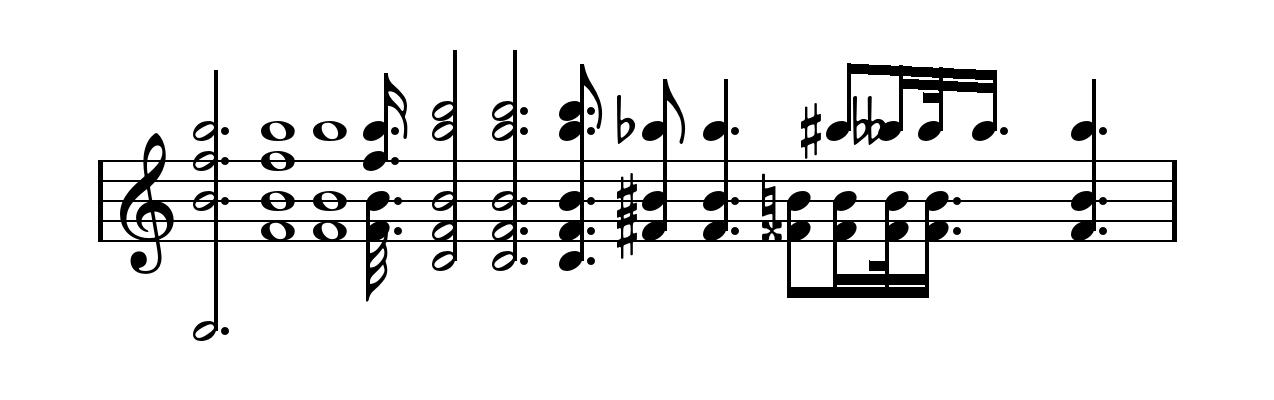
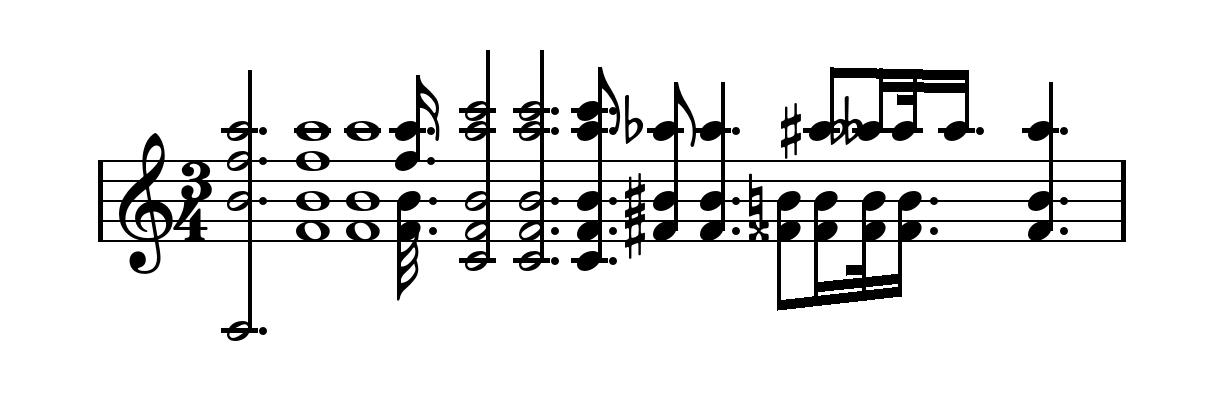
added time signatures

diff --git a/notepy/graph_generator.py b/notepy/graph_generator.py
@@ -54,6 +54,12 @@ def add_solid_prim(graph,prim,s,curj,h,pt = ["c","h"]):
     graph.add_prim(prim)
     return j+glob.inter_sym_dis
 
+def add_ledger_prim(graph,prim,s,curj):
+    ##loc has been set when connecting to its master notehead
+    prim.set_sym_index(s)
+    graph.add_prim(prim)
+    return curj
+
 def add_stem_prim(graph,stem,s,curj,up):
     if up:
         i1 = glob.center_height#top
@@ -91,7 +97,7 @@ def add_beam_prim(graph,beam,s,curj):
     beam.set_sym_index(s)
     graph.add_prim(beam)
     return j2
-    
+
 def add_graph_prim_parm(graph,prim,s,curj,h = glob.center_height, up = 0):
     if prim.name == "bar":
         newj = add_bar(graph,prim,s,curj)
@@ -101,6 +107,8 @@ def add_graph_prim_parm(graph,prim,s,curj,h = glob.center_height, up = 0):
         newj = add_stem_prim(graph,prim,s,curj,up)
     elif prim.name == "beam" or prim.name == 'part_beam':
         newj = add_beam_prim(graph,prim,s,curj)
+    elif prim.name == "ledger_line":
+        newj = add_ledger_prim(graph,prim,s,curj)
     else:
         newj = curj + glob.inter_sym_dis
         #simply do nothing here
@@ -154,6 +162,19 @@ def add_clef_key(graph, clef_key,s,j,clef,keys):
     else:
         newj = curj + glob.inter_sym_dis
         #simply do nothing here
+    
+    #time signature
+    if 't' in clef_key.attribute.keys():
+        num = clef_key.attribute['t'][0]
+        time_top_prim = Primitive("time_"+str(num),1,0)
+        newj = add_graph_prim_parm(graph,time_top_prim,s,j,h = glob.staff_top + glob.staff_gap)
+        num = clef_key.attribute['t'][1]
+        time_bot_prim = Primitive("time_"+str(num),1,0)
+        newj = add_graph_prim_parm(graph,time_bot_prim,s,j, h = glob.staff_bot - glob.staff_gap)
+        
+        graph.add_edge(time_top_prim, time_bot_prim, 0 , 0, "h", 0)
+        graph.add_edge(prim, time_top_prim, 0 , 0, "h", glob.inner_sym_dis)
+
     return newj
 
 def get_acc(p,acc,clef,keys):
@@ -191,15 +212,21 @@ def find_pitch_height(pitch, clef, keys):#needs to parse the string into midi nu
     optp = indices[opti]
     
     acc = get_acc(pitch[0],pitch[1],clef,keys) #type,num of accidentals
+
+    ledger = 0
     
     ##only works for treble clef for now
     if clef == 'treble':
         pos_diff = (p - 60)/12#C4 for reference
         height = glob.center_height + 3*glob.staff_gap - pos_diff*(3.5*glob.staff_gap) - float(opti)*(0.5*glob.staff_gap)
-        return [height,acc]
+
+        if height > glob.center_height + 2*glob.staff_gap or height < glob.center_height - 2*glob.staff_gap:
+            ledger = 1
+        
+        return [height,acc,ledger]
     else:
         #simply do nothing
-        return [glob.center_height,acc]
+        return [glob.center_height,acc,ledger]
 
 def get_acc_name(acc,num):
     if num > 2 or num < 0:
@@ -222,13 +249,21 @@ def add_acc(graph,note_head,acc,s,j,onset):
             add_graph_prim_parm(graph,prim,s,j)
             connect_prim_knots(note_head,prim,0,0,'v',0)
             connect_prim_knots(note_head,prim,0,0,'h',-glob.note_head_to_sat)
-    
+
+def add_ledger_line(graph,note_head,s,j,onset):
+    prim = Primitive("ledger_line", 1,onset)
+    add_graph_prim_parm(graph,prim,s,j)
+    connect_prim_knots(note_head,prim,0,0,'v',0)
+    connect_prim_knots(note_head,prim,0,0,'h',0)
+            
 def add_note_head(graph,name,onset,pitch,s,j,clef,keys):
     """ generic function to add all sorts fo note heads and its satellites"""
-    [height,acc] = find_pitch_height(pitch,clef,keys)
+    [height,acc,ledger] = find_pitch_height(pitch,clef,keys)
     prim = Primitive(name,1,onset)#prim is the primitive of notehead
     newj = add_graph_prim_parm(graph,prim,s,j,h = height)
     add_acc(graph,prim,acc,s,j,onset)
+    if ledger:
+        add_ledger_line(graph,prim,s,j,onset)
     return [height,prim,newj]
 
 def add_whole_note(graph,whole,s,j,clef,keys):
@@ -637,6 +672,9 @@ def add_horizontal_edge(graph,vert_added):
     pl.sort(key=lambda x: x.onset)
     for pair in pairs(pl):#first on the left and second on the right
         #if pair[0].locs[pair[0].num-1][1][0] != pair[1].locs[0][1][0]:
+        
+        #print "hello",pair[0].name, pair[1].name
+        
         if pair[0].symbol != pair[1].symbol and (pair[0].symbol, pair[1].symbol) not in vert_added:
             if pair[0].onset == pair[1].onset and any(va in pair[0].name for va in glob.vertically_alignable)\
                 and any(va in pair[1].name for va in glob.vertically_alignable):
@@ -684,6 +722,7 @@ def tree_to_prim_graph(tree):
     curbar = Primitive("bar",2,0)
     curj = add_graph_prim_parm(graph,curbar,sym_index,curj)#0 for current symbol index of the bar?
     fix_prim_parm(graph.parms,curbar,0,1)
+
     #for clef and keys
     clef = 'treble'#default one
     keys = 0#default one

diff --git a/notepy/glob.py b/notepy/glob.py
@@ -3,8 +3,8 @@ space_unit = 20
 font_size = int(4*space_unit)
 staff_gap = space_unit
 staff_width = int(space_unit/10)
-ledger_width = int(1.5*staff_width)
-ledger_radius = int(1.5*space_unit)
+ledger_width = int(2.6*staff_width)
+ledger_radius = int(0.9*space_unit)
 bar_width = int(space_unit/4)
 double_bar_width = 2*bar_width
 stem_width = int(space_unit/5)
@@ -13,17 +13,18 @@ beam_width = int(staff_gap/2)
 beam_len = int(2*space_unit)
 part_beam_len = int(space_unit/1.2)
 
-_symbols = ['beam', 'chord', 'rest', 'bar', 'text', 'slur', 'crescendo', 'clef', 'key', 'time']
+_symbols = ['beam', 'chord', 'rest', 'bar', 'text', 'slur', 'crescendo', 'clef']#, 'key', 'time']
 _positions = ['top', 'bot', 'left', 'rite']
-_attributes = ['c','k','p','d', 'o', 'dir', 'num'] + _positions
-##############clef,key,pitch,duration,onset,direction,number,positions
+_attributes = ['c', 't', 'k','p','d', 'o', 'dir', 'num'] + _positions
+##############clef,time,key,pitch,duration,onset,direction,number,positions
 
 _flags = ['system', 'staff', 'measure'] + _symbols + _attributes
-_hierarchy = [('system','staff'), ('staff','measure'), ('measure', 'beam'), ('measure', 'beam'), ('measure', 'chord'), ('measure', 'clef'), ('clef','key'), ('clef', 'time'), ('beam', 'chord'), ('measure','rest')]
+_hierarchy = [('system','staff'), ('staff','measure'), ('measure', 'beam'), ('measure', 'beam'), ('measure', 'chord'), ('measure', 'clef'), ('beam', 'chord'), ('measure','rest')]  #, ('clef','key'), ('clef', 'time')
 
 inter_sym_dis = 3*space_unit
 inter_stem_dis = space_unit*1.5
 inter_beam_dis = int(space_unit/1.5)
+inner_sym_dis = space_unit*2.5
 
 left_margin = 5*space_unit
 rite_margin = 5*space_unit
@@ -36,6 +37,7 @@ staff_top = top_margin
 staff_bot = staff_top + 4*staff_gap
 staff_left = left_margin
 staff_rite = 0 #unset yet
+
 
 #for pitches
 pitch_index = {
@@ -61,7 +63,7 @@ index_pitch = {
 #for symbol offsets [i,j]
 solid_offset = {
     "treble_clef":[staff_gap + int(-2*font_size),int(-font_size/2.5)],
-    "whole_note_head":[int(-2*font_size),int(-font_size/7)],
+    "whole_note_head":[int(-2*font_size),int(-font_size/5)],
     "open_note_head":[int(-2*font_size),int(-font_size/7)],
     "solid_note_head":[int(-2*font_size),int(-font_size/7)],
     "single_aug_dot":[int(-2*font_size),0],
@@ -78,6 +80,16 @@ solid_offset = {
     "double_sharp":[int(-2*font_size),int(-font_size/4)],
     "double_flat":[int(-2*font_size),int(-font_size/4)],
     "double_natural":[int(-2*font_size),int(-font_size/4)],
+    "time_0":[int(-2*font_size),int(-font_size/7)],
+    "time_1":[int(-2*font_size),int(-font_size/7)],
+    "time_2":[int(-2*font_size),int(-font_size/7)],
+    "time_3":[int(-2*font_size),int(-font_size/7)],
+    "time_4":[int(-2*font_size),int(-font_size/7)],
+    "time_5":[int(-2*font_size),int(-font_size/7)],
+    "time_6":[int(-2*font_size),int(-font_size/7)],
+    "time_7":[int(-2*font_size),int(-font_size/7)],
+    "time_8":[int(-2*font_size),int(-font_size/7)],
+    "time_9":[int(-2*font_size),int(-font_size/7)]
 }
 solid_symbol = list(solid_offset.keys())
 
@@ -86,7 +98,7 @@ solid_symbol = list(solid_offset.keys())
 
 #for prim-to-prim distance
 note_head_to_stem = space_unit/1.9
-note_head_to_sat = space_unit/1.2
+note_head_to_sat = space_unit#/1.2
 
 #for vertical alignment
 vertically_alignable = ['note_head','stem','flag','aug','sharp','flat','natural']

diff --git a/notepy/notation_rendering.py b/notepy/notation_rendering.py
@@ -27,6 +27,11 @@ def draw_stem(draw,stem,parms):
     i2 = parms[stem.locs[1][0][0]].value + stem.locs[1][0][1]
     draw.line((j,i1, j,i2), width = glob.stem_width, fill=(0,0,0,0))
 
+def draw_ledger_line(draw,ledger_line,parms):
+    i = parms[ledger_line.locs[0][0][0]].value + ledger_line.locs[0][0][1]
+    j = parms[ledger_line.locs[0][1][0]].value + ledger_line.locs[0][1][1]
+    draw.line((j-glob.ledger_radius, i, j+glob.ledger_radius, i), width = glob.ledger_width, fill = (0,0,0,0))
+    
 def draw_beam(draw,beam,parms):
     i1 = parms[beam.locs[0][0][0]].value + beam.locs[0][0][1]
     j1 = parms[beam.locs[0][1][0]].value + beam.locs[0][1][1] - glob.stem_width/3
@@ -38,12 +43,15 @@ def draw_beam(draw,beam,parms):
    # draw.line((j1,i1, j2,i2), width = glob.beam_width, fill=(0,0,0,0))
     
 def draw_prim(draw, font, prim, parms):
+    print "drawing..."
     if prim.name in glob.solid_symbol:
         draw_solid_prim(draw, font, prim, parms)
     elif prim.name == "bar":
         draw_bar(draw,prim, parms)
     elif prim.name == "stem":
         draw_stem(draw,prim,parms)
+    elif prim.name == "ledger_line":
+        draw_ledger_line(draw,prim,parms)
     elif prim.name == "beam" or prim.name == "part_beam":
         draw_beam(draw,prim,parms)
     #else:

diff --git a/notepy/mystruct.py b/notepy/mystruct.py
@@ -15,6 +15,18 @@ class Node:
             self.attribute.update({key:[]})
         if key == 'o': #onset is used to order symbols, in integer type
             att = int(attribute)
+        elif key == 't':
+            inp = attribute.strip()
+            ilist = inp.split('/')
+            if len(ilist) == 2:
+                att = int(ilist[0])
+                self.attribute[key].append(att)
+                att = int(ilist[1])
+                self.attribute[key].append(att)
+                return
+            else:
+                error('Cannot handle this type of time signature.')
+                att = 0
         elif key == 'd':
             inp = attribute.strip()
             ilist = inp.split('/')

diff --git a/notepy/font_dict.py b/notepy/font_dict.py
@@ -18,9 +18,22 @@ font_dict = {
     "double_sharp":u"\uE263",
     "double_flat":u"\uE264",
     "double_natural":u"\uE261",#do we have double natural?
+    "time_0":u"\uE080",
+    "time_1":u"\uE081",
+    "time_2":u"\uE082",
+    "time_3":u"\uE083",
+    "time_4":u"\uE084",
+    "time_5":u"\uE085",
+    "time_6":u"\uE086",
+    "time_7":u"\uE087",
+    "time_8":u"\uE088",
+    "time_9":u"\uE089",
+    "time_common":u"\uE08A",
+    "time_cut":u"\uE08B",
     "bar":-1,
     "double_bar":-1,
     "stem":-1,
     "beam":-1,
     "part_beam":-1,
+    "ledger_line":-1
 }

diff --git a/notepy/parser.py b/notepy/parser.py
@@ -58,7 +58,7 @@ def parse_content(txt):
                         for att in content:
                             parent.add_attribute(node.value, att)
         else:
-            continue;
+            continue
 
     if len(stack) > 0:
         print "Error in pairing parantheses, left/right parantheses unbalanced."
